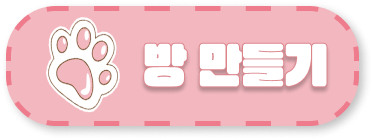
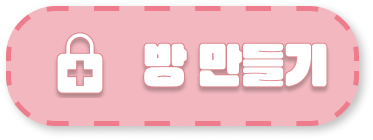
style: 버튼 수정, 로그 사이즈 수정

Changed region(s): [[0.118, 0.1143, 0.3244, 0.8]]

diff --git a/Sarkem/front_ex/src/components/games/Log.js b/Sarkem/front_ex/src/components/games/Log.js
@@ -8,15 +8,15 @@ const ChatContainer = styled.div`
   background-size: cover;
   background-color: transparent;
   background-repeat: no-repeat;
-  width: 580px;
-  height: 540px;
+  width: 380px;
+  height: 350px;
   display: flex;
   flex-direction: column;
   padding: 10px;
   font-family: 'NeoDunggeunmoPro-Regular', sans-serif;
-  position: fixed;
-  top: ${props => props.top};
-  left: ${props => props.left};
+  position: absolute;
+  top: 540px;
+  left: 200px;
   transform: translate(-50%, -50%);
   z-index: 9999;
   display: flex;
@@ -26,11 +26,13 @@ const ChatContainer = styled.div`
 
 const ScrollableText = styled.div`
   max-height: 75%;
+  height: 60%;
   overflow: auto;
-  line-height: 1.5; /* Adjust the value as needed */
+  line-height: 1.2; /* Adjust the value as needed */
+  margin-left: 2%;
 `;
 
-const Log = ({ top, left }) => {
+const Log = () => {
   const { currentSysMessagesArray } = useGameContext();
   console.log(currentSysMessagesArray);
 
@@ -44,9 +46,8 @@ const Log = ({ top, left }) => {
   }, [currentSysMessagesArray]);
 
   return (
-    <ChatContainer top={top} left={left}>
+    <ChatContainer >
       <h3> —̳͟͞💗  —̳͟͞💗 ˚ GAME LOG —̳͟͞💗  —̳͟͞💗 ˚</h3>
-      <hr></hr>
       <ScrollableText ref={scrollableRef}>
       {currentSysMessagesArray.map((sysMessage, index) => (
         <div key={index}>

diff --git a/Sarkem/front_ex/src/pages/CommonStart.js b/Sarkem/front_ex/src/pages/CommonStart.js
@@ -94,12 +94,13 @@ const RightPart = styled.div`
     width: 300px; /* 원하는 너비로 설정 */
     height: 50px; /* 원하는 높이로 설정 */
     padding: 5px;
-    font-size: 35px;
+    font-size: 30px;
     border: none;
     background-color: transparent;
     outline: none;
     // text-align: center; 
     font-family: "RixInooAriDuriR";
+    font-weight: 10% !important;
   }
   span {
     margin: 0 50px; /* You can adjust the margin as needed */
@@ -190,6 +191,7 @@ const CommonStart = ({onClick} ) => {
   const handleNickNameChange = (event) => {
     setNickName(event.target.value);
   }
+
 
   return (
     <Background>

diff --git a/Sarkem/front_ex/src/pages/SunsetPage.js b/Sarkem/front_ex/src/pages/SunsetPage.js
@@ -621,7 +621,7 @@ const SunsetPage = () => {
   return (
     <Background>
       <StyledContent>
-      {!isLogOn && <Log top="60%" left="26%" />}
+      {!isLogOn && <Log />}
       <SunMoon alt="SunMoon"></SunMoon>
       <TimeSecond>{remainTime}s</TimeSecond>
       <CamButton alt="Camera Button" onClick={handleCamButtonClick} isCamOn={isCamOn} />

diff --git a/Sarkem/front_ex/src/pages/DayPage.js b/Sarkem/front_ex/src/pages/DayPage.js
@@ -134,7 +134,7 @@ const DayPage = () => {
   return (
     <Background>
       <StyledDayPage>
-        {!isLogOn && <Log top="60%" left="26%" />}
+        {!isLogOn && <Log />}
         <SunMoon alt="SunMoon" />
         <TimeSecond>{remainTime}s</TimeSecond>
         <CamButton alt="Camera Button" onClick={handleCamButtonClick} isCamOn={isCamOn} />

diff --git a/Sarkem/front_ex/src/pages/NightPage.js b/Sarkem/front_ex/src/pages/NightPage.js
@@ -132,7 +132,7 @@ const NightPage = () => {
     return (   
     <Background>
       <StyledNightPage>
-         {!isLogOn && <Log top="60%" left="26%" />}
+         {!isLogOn && <Log />}
         <DayNightCamera camArray={camArray}/>
         <SunMoon alt="SunMoon"></SunMoon>
         <TimeSecond>{remainTime}s</TimeSecond>

diff --git a/Sarkem/front_ex/src/index.css b/Sarkem/front_ex/src/index.css
@@ -26,6 +26,9 @@
   font-style: normal;
 }
 
+* {
+  color: #403f3f; /* 일단 차콜그레이색 */
+}
 
 body {
   margin: 0;
